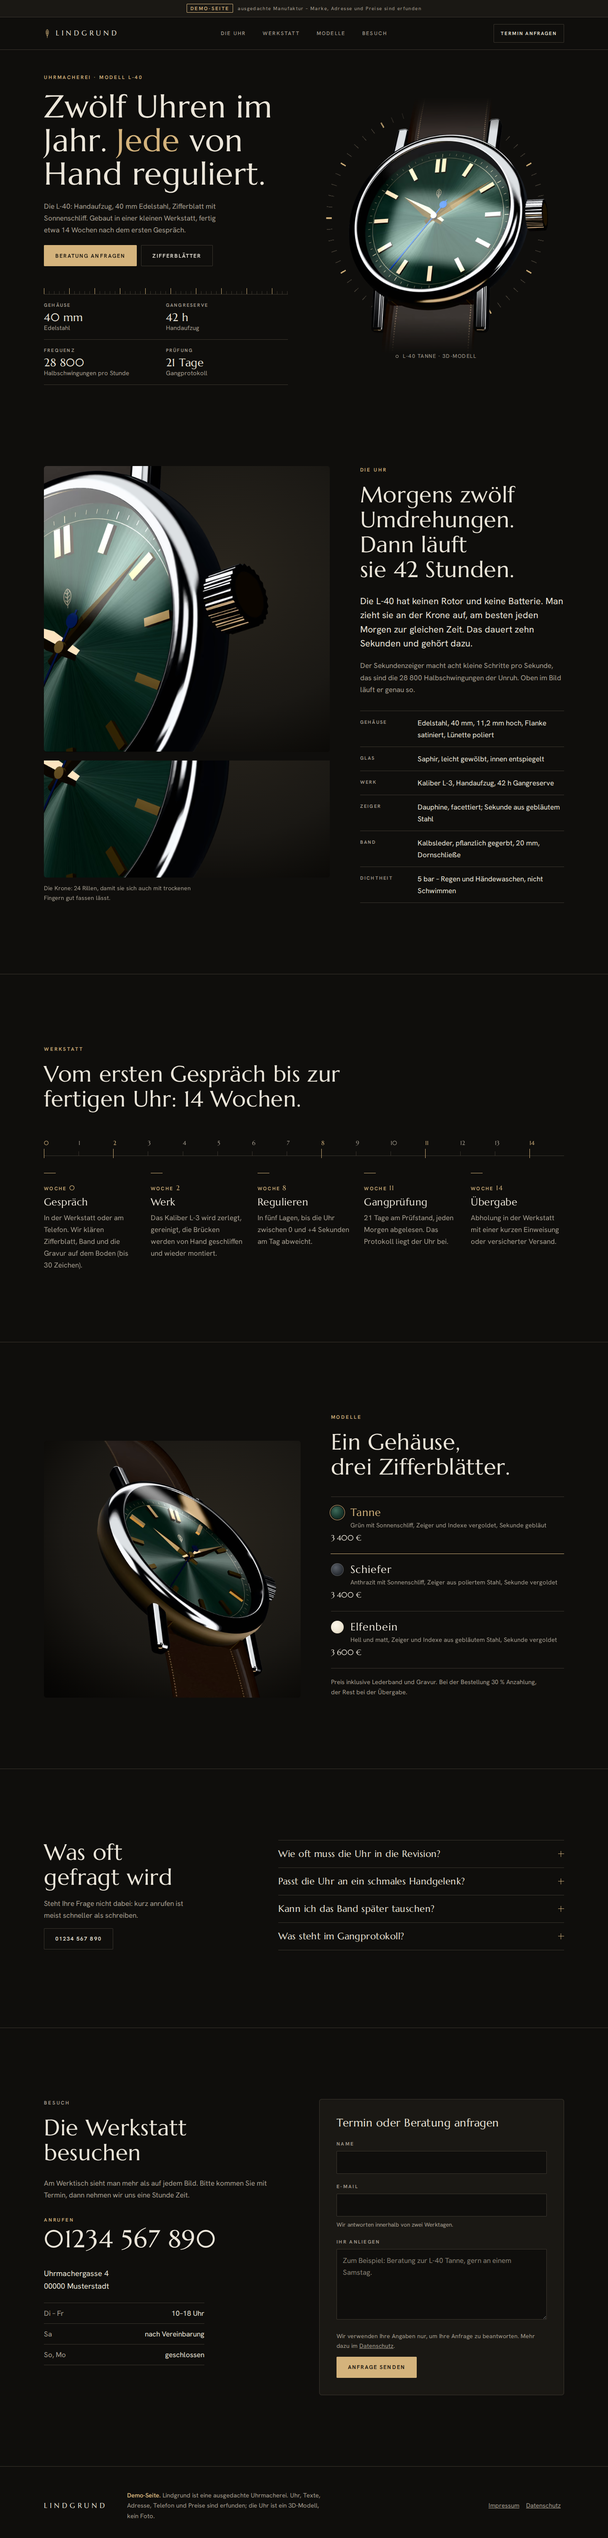
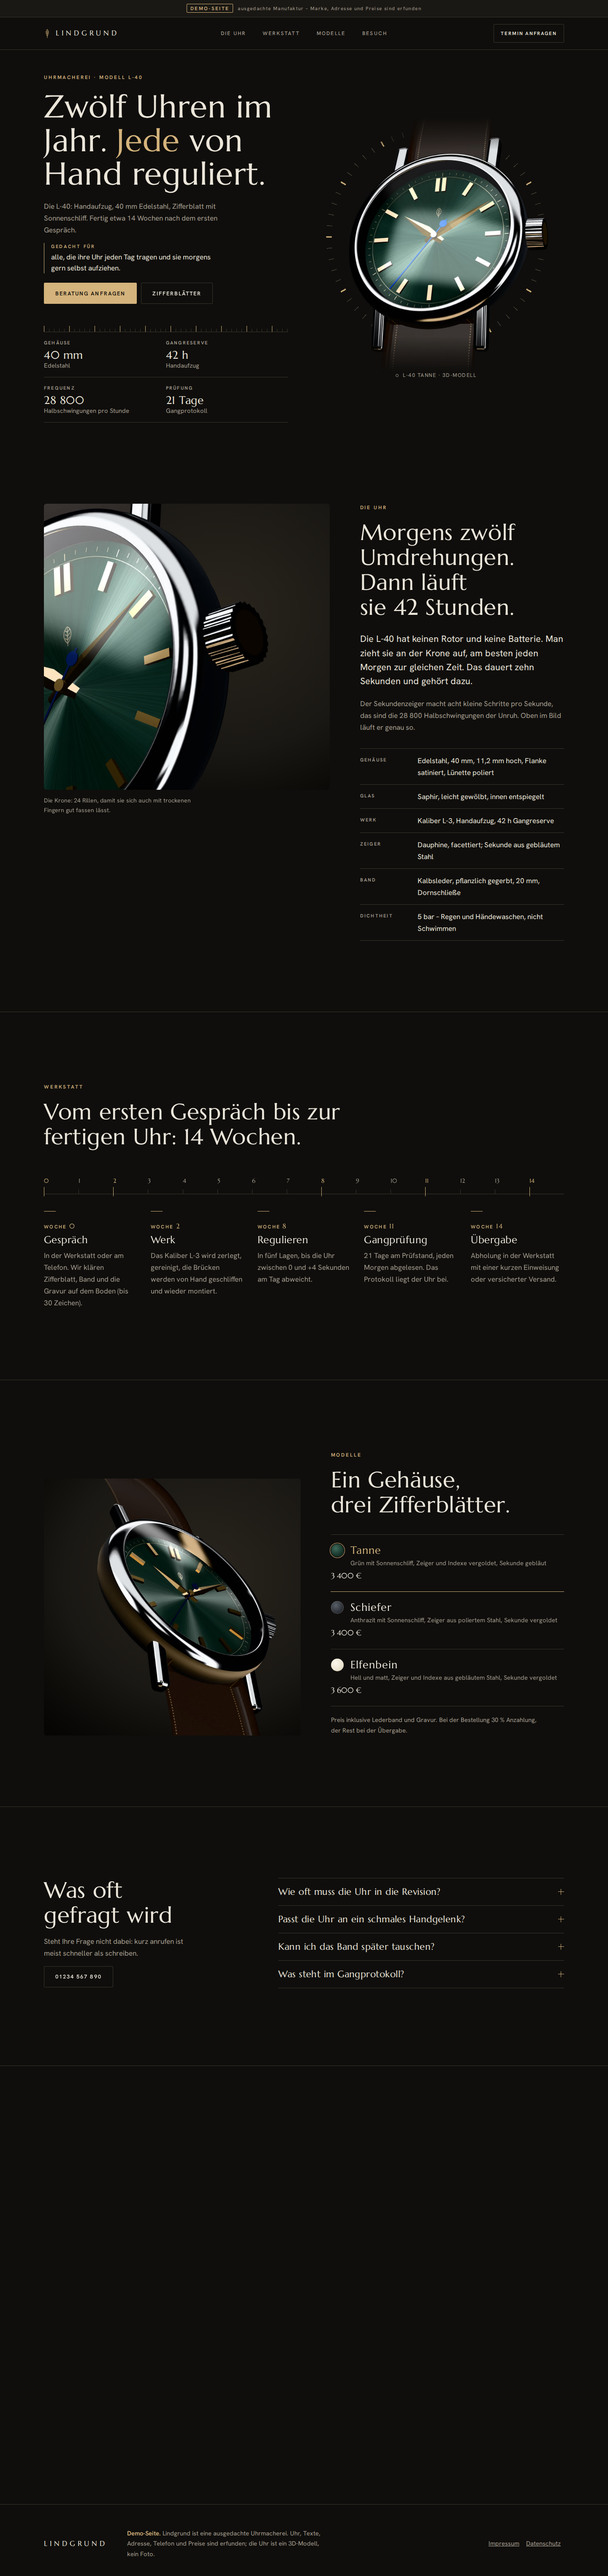
Showcase edel: Zustände, Bewegungsbelege und „Gedacht für“ nach der Zweitnote (A-032)
- Knöpfe: Hover (nur Maus) hellt auf und zieht eine feine Linie unter der Schrift auf,
  Aktiv drückt sich ein (scale .975, dunkler, 80 ms), Fokus als Ring mit 4 px Abstand
- Telefonlink: Fokusring mit Abstand, damit er die Überzeile nicht berührt
- Zifferblatt-Wechsel: Kreis öffnet sich aus der Zeigerachse (--mitte, Handy umgerechnet), Endradius 85 %
- Hero: „Gedacht für“ – Zielgruppe konkret benannt (data-pruefen, Demo), Intro gestrafft
- Belegbilder: Zifferblatt-Wechsel mit Uhr und Liste (390/1440), Drehung der 3D-Uhr als Einzelbilder
  mit Pixelabweichung (390/1440), Knopfzustände nebeneinander, Telefonlink sichtbar, 3D lädt/läuft
- Lehren in wissen/lehren/showcase-edel.md ergänzt, Ladezustand der 3D-Szene begründet entschieden

Claude-Session: https://claude.ai/code/session_01Gt3jZQYM48uUocZ8Eq6PUE

diff --git a/showcase/edel/public/css/stil.css b/showcase/edel/public/css/stil.css
@@ -37,19 +37,33 @@ p { margin: 0 0 1em; }
     repeating-linear-gradient(90deg, var(--farbe-linie) 0 1px, transparent 1px 12px) 0 100% / 100% 7px no-repeat;
 }
 
-/* Knöpfe */
+/* Knöpfe – vier klar getrennte Zustände:
+   Ruhe: goldene Fläche. Hover (nur Maus): heller, eine feine Linie läuft unter der Schrift auf.
+   Aktiv: drückt sich ein (kleiner, dunkler, kurz). Fokus: Ring mit Abstand in der Akzentfarbe. */
 .knopf {
+  position: relative; isolation: isolate;
   display: inline-flex; align-items: center; justify-content: center; gap: .6em; min-height: 50px; padding: 0 26px;
   background: var(--farbe-akzent); color: var(--farbe-auf-akzent); border: 1px solid var(--farbe-akzent); border-radius: var(--radius-klein);
   font: 600 .8rem/1.2 var(--schrift-text); letter-spacing: .16em; text-transform: uppercase; text-decoration: none; white-space: nowrap; cursor: pointer;
   transition: transform var(--tempo-kurz) var(--kurve-standard), background-color var(--tempo-kurz) var(--kurve-standard), border-color var(--tempo-kurz) var(--kurve-standard), color var(--tempo-kurz) var(--kurve-standard);
 }
+.knopf::after {
+  content: ""; position: absolute; left: 22px; right: 22px; bottom: 11px; height: 1px; background: currentColor; opacity: .55;
+  transform: scaleX(0); transform-origin: left; transition: transform var(--tempo-mittel) var(--kurve-standard);
+}
 .knopf--rahmen { background: none; color: var(--farbe-text); border-color: var(--farbe-linie); }
-.knopf:active { transform: translateY(1px) scale(.985); }
+.knopf:focus-visible { outline: 2px solid var(--farbe-akzent); outline-offset: 4px; }
+.knopf:active { transform: scale(.975); background: color-mix(in oklab, var(--farbe-akzent) 76%, #000); border-color: color-mix(in oklab, var(--farbe-akzent) 76%, #000); transition-duration: .08s; }
+.knopf--rahmen:active { background: color-mix(in oklab, var(--farbe-flaeche) 60%, #000); border-color: var(--farbe-akzent); color: var(--farbe-akzent); }
 .knopf[disabled] { cursor: progress; opacity: .7; }
 @media (hover: hover) and (pointer: fine) {
-  .knopf:hover { transform: translateY(-2px); background: color-mix(in oklab, var(--farbe-akzent) 84%, var(--farbe-text)); }
-  .knopf--rahmen:hover { background: none; border-color: var(--farbe-akzent); color: var(--farbe-akzent); }
+  .knopf:hover { background: color-mix(in oklab, var(--farbe-akzent) 80%, #fff); border-color: color-mix(in oklab, var(--farbe-akzent) 80%, #fff); }
+  .knopf:hover::after { transform: scaleX(1); }
+  .knopf--rahmen:hover { background: color-mix(in oklab, var(--farbe-akzent) 8%, transparent); border-color: var(--farbe-akzent); color: var(--farbe-akzent); }
+  .knopf:active { background: color-mix(in oklab, var(--farbe-akzent) 76%, #000); border-color: color-mix(in oklab, var(--farbe-akzent) 76%, #000); }
+  .knopf--rahmen:active { background: color-mix(in oklab, var(--farbe-flaeche) 60%, #000); border-color: var(--farbe-akzent); }
+  .knopf[disabled]:hover { background: var(--farbe-akzent); }
+  .knopf[disabled]:hover::after { transform: scaleX(0); }
 }
 
 /* Demo-Band */
@@ -90,6 +104,8 @@ p { margin: 0 0 1em; }
 .held__raster { display: grid; gap: 0; }
 .held h1 { font-size: clamp(2.2rem, 1.1rem + 4.6vw, 4.7rem); line-height: 1.06; letter-spacing: .012em; max-width: 13ch; margin-bottom: 22px; }
 .held__intro { color: var(--farbe-leise); max-width: 44ch; font-size: 1.0625rem; }
+.held__fuer { max-width: 40ch; margin: 0; padding-left: 16px; border-left: 1px solid var(--farbe-akzent); font-size: 1.0625rem; line-height: 1.55; }
+.held__fuer-label { display: block; margin-bottom: 2px; font-size: .7rem; font-weight: 600; letter-spacing: .24em; text-transform: uppercase; color: var(--farbe-akzent); }
 .aktionen { position: relative; z-index: 3; display: flex; flex-wrap: wrap; gap: 10px; margin-top: 22px; }
 @media (max-width: 480px) { .aktionen .knopf { padding: 0 18px; letter-spacing: .12em; } }
 .buehne { position: relative; margin-top: -28px; }
@@ -189,17 +205,18 @@ p { margin: 0 0 1em; }
 /* Modelle */
 .modelle__raster { display: grid; gap: 32px; }
 .modelle__kopf h2 { margin-bottom: 0; }
-.modelle__bilder { position: relative; aspect-ratio: 1; }
-.modell-bild { position: absolute; inset: 0; z-index: 1; clip-path: circle(0% at 52% 50%); transition: clip-path 0s linear var(--tempo-lang); }
+.modelle__bilder { position: relative; aspect-ratio: 1; --mitte: 57% 42%; }
+/* Der Kreis öffnet sich aus der Zeigerachse des Zifferblatts (--mitte), nicht aus der Bildmitte. */
+.modell-bild { position: absolute; inset: 0; z-index: 1; clip-path: circle(0% at var(--mitte)); transition: clip-path 0s linear var(--tempo-lang); }
 .modell-bild img { width: 100%; height: 100%; }
 .modelle:has([value="tanne"]:checked) .modell-bild--tanne,
 .modelle:has([value="schiefer"]:checked) .modell-bild--schiefer,
-.modelle:has([value="elfenbein"]:checked) .modell-bild--elfenbein { z-index: 2; clip-path: circle(75% at 52% 50%); transition: clip-path var(--tempo-lang) var(--kurve-sanft); }
+.modelle:has([value="elfenbein"]:checked) .modell-bild--elfenbein { z-index: 2; clip-path: circle(85% at var(--mitte)); transition: clip-path var(--tempo-lang) var(--kurve-sanft); }
 @supports not selector(:has(*)) { .modell-bild--tanne { clip-path: none; } }
 @media (max-width: 959px) {
   /* Auf dem Handy flacher, damit Uhr und Auswahl zusammen auf einen Bildschirm passen. */
   .modelle__raster { gap: 20px; }
-  .modelle__bilder { aspect-ratio: 1 / .66; }
+  .modelle__bilder { aspect-ratio: 1 / .66; --mitte: 54.6% 42%; }
   .modell-bild img { object-fit: contain; }
   .wahl__zeile { padding-block: 16px; }
 }
@@ -269,6 +286,7 @@ details p { color: var(--farbe-leise); padding-bottom: 20px; margin: 0; }
   transition: background-size var(--tempo-mittel) var(--kurve-standard);
 }
 .telefon__label { display: block; font: 600 .72rem/1.4 var(--schrift-text); letter-spacing: .24em; text-transform: uppercase; color: var(--farbe-akzent); margin-bottom: 6px; }
+.telefon:focus-visible { outline-offset: 10px; }
 @media (hover: hover) and (pointer: fine) { .telefon:hover { background-size: 100% 1px; } }
 .adresse { font-style: normal; font-size: 1.15rem; margin-bottom: 24px; }
 .zeiten { margin: 0; max-width: 380px; border-top: 1px solid var(--farbe-linie); }

diff --git a/showcase/edel/public/index.html b/showcase/edel/public/index.html
@@ -48,7 +48,8 @@
       <div class="held__text">
         <p class="ueberzeile">Uhrmacherei · Modell L-40</p>
         <h1 id="titel">Zwölf Uhren im Jahr. <span class="akzent">Jede</span> von Hand reguliert.</h1>
-        <p class="held__intro">Die L-40: Handaufzug, 40&nbsp;mm Edelstahl, Zifferblatt mit Sonnenschliff. Gebaut in einer kleinen Werkstatt, fertig etwa 14&nbsp;Wochen nach dem ersten Gespräch.</p>
+        <p class="held__intro">Die L-40: Handaufzug, 40&nbsp;mm Edelstahl, Zifferblatt mit Sonnenschliff. Fertig etwa 14&nbsp;Wochen nach dem ersten Gespräch.</p>
+        <p class="held__fuer" data-pruefen="Zielgruppe ausgedacht (Demo)"><span class="held__fuer-label">Gedacht für</span> alle, die ihre Uhr jeden Tag tragen und sie morgens gern selbst aufziehen.</p>
         <div class="aktionen">
           <a class="knopf" href="#anfrage">Beratung anfragen</a>
           <a class="knopf knopf--rahmen" href="#modelle">Zifferblätter</a>

diff --git a/wissen/lehren/showcase-edel.md b/wissen/lehren/showcase-edel.md
@@ -61,3 +61,18 @@ Das Herzstück ist eine prozedural modellierte Armbanduhr (three.js), kein Foto 
   Versal-Überzeilen mit 0,24 em Laufweite tragen den „edel“-Eindruck mehr als jede Farbe.
 - Der Demo-Hinweis wurde **gestaltet** (Band mit Rahmen-Etikett oben, Absatz im Fuß) statt als Warnung – so stört er
   den Eindruck nicht und ist trotzdem auf jedem Bildschirm da.
+
+## 5. Nachbesserung nach der Zweitnote (A-032, W5 = 2, W6 = 3)
+
+| Befund | Ursache | Regel |
+|---|---|---|
+| Bildfolge des Zifferblatt-Wechsels zeigte nur die Liste | Ausschnitt war der Bildschirm nach dem Klick; die Uhr lag darüber | Bildfolgen mit **gezieltem Ausschnitt** (Bild + Auslöser zusammen), Abschnitt vorher so scrollen, dass beides im Bild ist; bei Radien/Masken den berechneten Wert (`getComputedStyle(...).clipPath`) je Zeitpunkt mitschreiben |
+| Übergang Poster → Szene belegt keine Bewegung | er ist absichtlich unsichtbar | langsame Bewegung als **Einzelbilder über Sekunden** belegen und die mittlere Pixelabweichung zum ersten Bild daneben schreiben (Zahl statt Behauptung) |
+| Fokusbild Telefon war schwarz | erster `a[href^="tel:"]` war der versteckte in der Handyleiste | Zustands-Skripte nur mit `locator(sel).locator('visible=true')`; `Tab` vor `focus()` fokussiert den Skip-Link und scrollt nach oben → stattdessen `keyboard.press('Shift')` und `el.focus()`; `scroll-behavior` im Test per `style` auf `auto` (CSP verbietet `addStyleTag`) |
+| Hover/Aktiv kaum vom Ruhezustand zu unterscheiden | nur 2 px Verschiebung und 16 % Farbmischung | Hover: deutlich heller (+20 % Weiß) **und** feine Linie unter der Schrift (`::after`, `scaleX`); Aktiv: `scale(.975)`, 24 % dunkler, Übergang 80 ms; Fokus: Ring mit 4 px Abstand. Alle vier Zustände nebeneinander aufnehmen |
+| Kreis des Zifferblatt-Wechsels öffnete sich neben der Zeigerachse | Mitte `52% 50%` geschätzt | Mitte aus dem Standbild messen (`--mitte`), auf dem Handy mit `object-fit: contain` umrechnen; Endradius so wählen, dass die entfernteste Ecke gedeckt ist (hier 85 %) |
+
+**Ladezustand der 3D-Szene – bewusst kein Hinweis:** Das Poster ist mit dem ersten 3D-Bild deckungsgleich und
+vollwertig. Ein Lade-Symbol würde fehlenden Inhalt vortäuschen und bliebe dort, wo die Szene nie startet
+(„Bewegung reduzieren“, „Daten sparen“, kein WebGL), für immer stehen. Der Zustand steckt leise im Punkt der
+Bildunterschrift: leer = Standbild, golden = Szene läuft (Beleg `zustaende-3d-laedt.png`).
